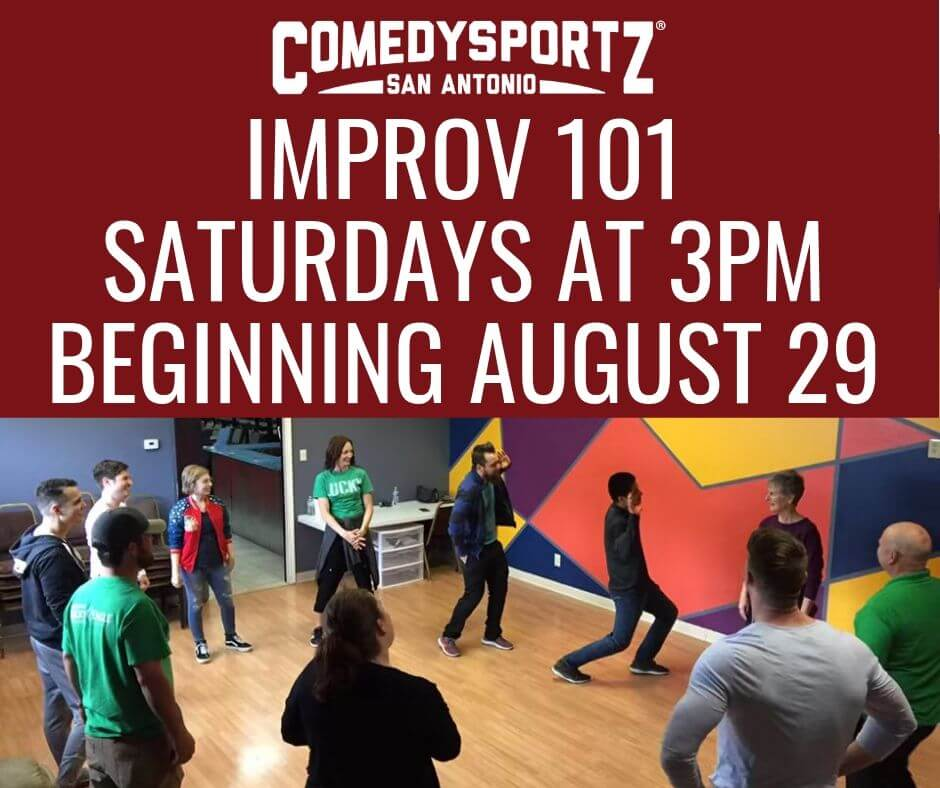
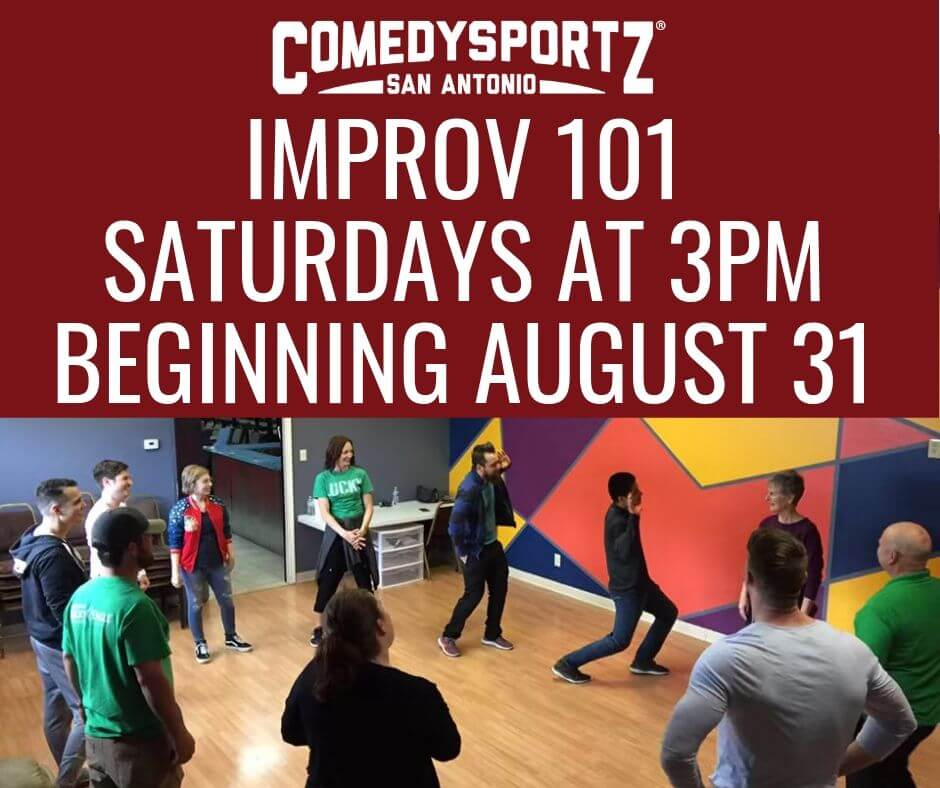
correct summer 101 dates

Changed region(s): [[0.0309, 0.3959, 0.9564, 0.5178]]

diff --git a/content/training.md b/content/training.md
@@ -6,7 +6,7 @@ ticket_link: 'https://squareup.com/store/CSz-SanAntonio/item/improv-saturdays-at
 classes:
 - improv101
 draft: false
-intro: Our next round of Improv 101 classes begin August 29th
+intro: Our next round of Improv 101 classes begin August 31st
 menuname: Classes
 title: Learn To Be An Improvisor
 weight: 50
@@ -15,8 +15,8 @@ images:
 - /images/101-summer-2019.jpg
 - /images/improv301.jpg
 featured: "true"
-start_date: "2019-08-29T12:00:12-06:00"
-end_date: "2019-08-29T23:00:40-06:00"
+start_date: "2019-08-31T15:00:12-06:00"
+end_date: "2019-08-31T23:00:40-06:00"
 ---
 
 CSz improv and applied improv classes are a fun, supportive way to learn improvisational thinking and gain self-confidence. Don’t be fooled into thinking improv is just for performers - many of our students use improv to develop business soft-skills, and communicate better - and they meet other cool people! There's almost always a CSz improv class running, so check out our class calendar and sign up today!
